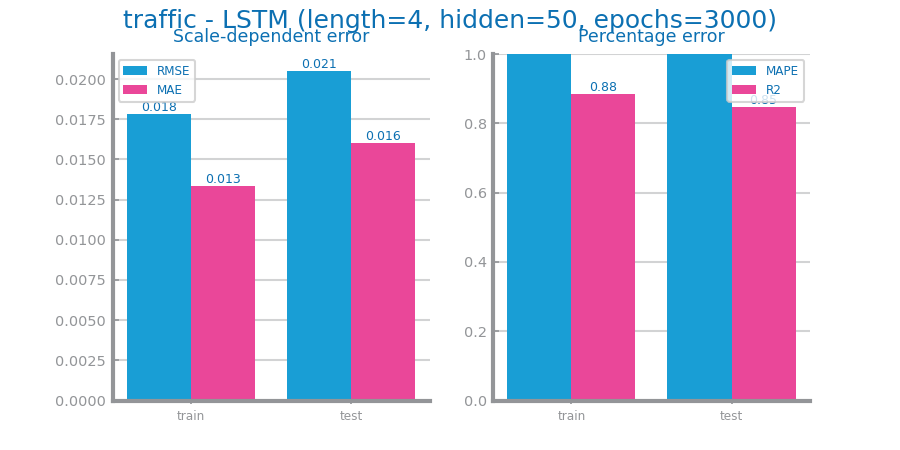
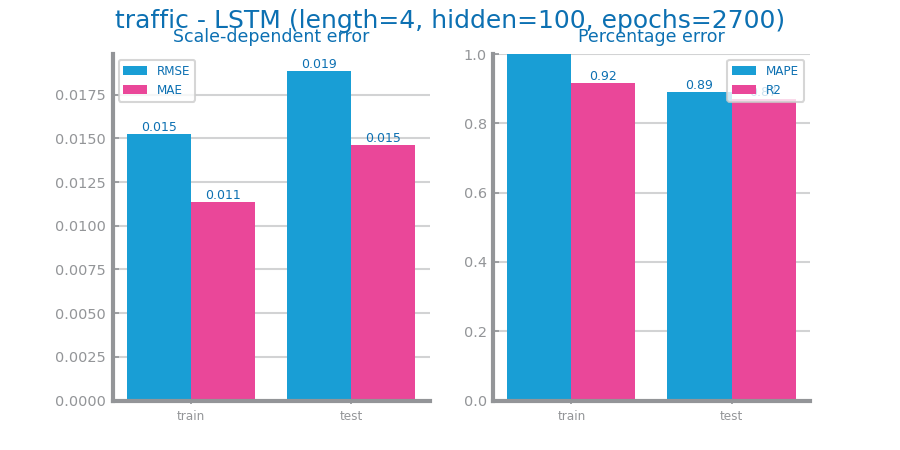
Last images

diff --git a/TimeSeries.py b/TimeSeries.py
@@ -70,8 +70,8 @@ series: Series = data[target]
 dist = ts_Distribtion(filename, file_tag, data, target, index)
 # dist.ts_distribution_boxplots()
 # dist.ts_distribution_histograms()
-dist.ts_autocorrelation_lag()
-dist.ts_autocorrelation_correlogram()
+# dist.ts_autocorrelation_lag()
+# dist.ts_autocorrelation_correlogram()
 
 # -------------------- #
 # --- Stationarity --- #
@@ -89,7 +89,7 @@ dist.ts_autocorrelation_correlogram()
 #         5%: -2.876
 #         10%: -2.575
 # The series is not stationary (p-value > 0.05 : the series is non-stationary)
-'''
+
 # ---------------------------------------
 #             Transformation
 # ---------------------------------------
@@ -228,4 +228,7 @@ lstm.lstm_study(3000)
 # 100
 # {'name': 'LSTM', 'metric': 'R2', 'params': (4, 100, 2100)}
 # LSTM best results achieved with length=4 hidden_units=100 and nr_episodes=2100) ==> measure=0.85
-'''
+
+# {'name': 'LSTM', 'metric': 'R2', 'params': (4, 100, 2700)}
+# LSTM best results achieved with length=4 hidden_units=100 and nr_episodes=2700) ==> measure=0.87
+
